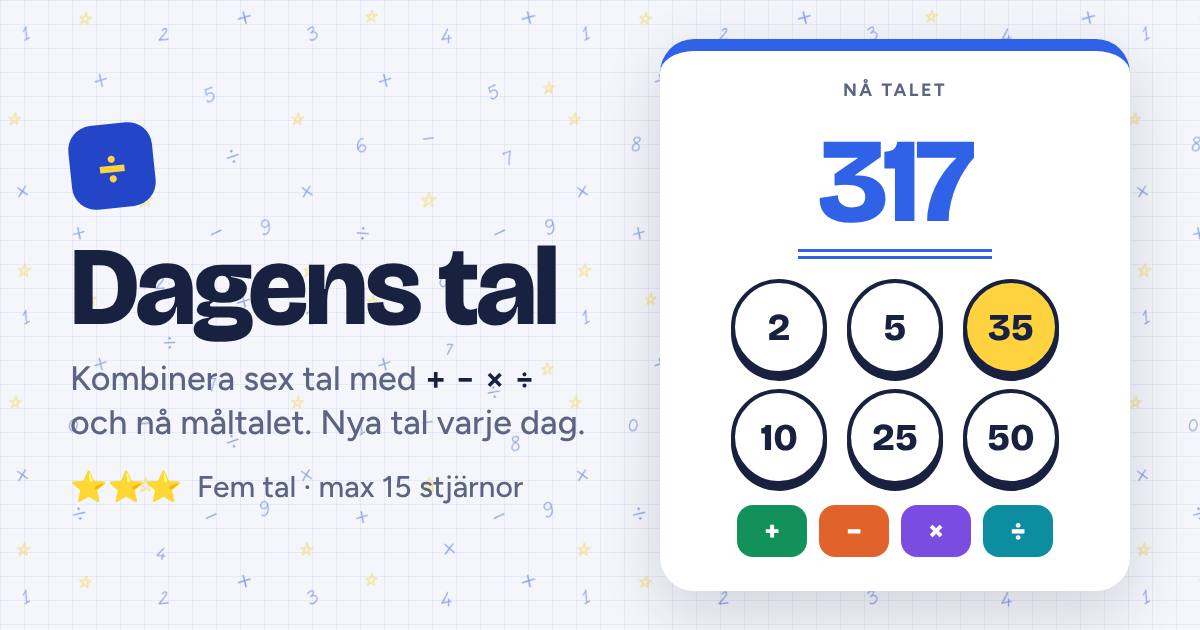
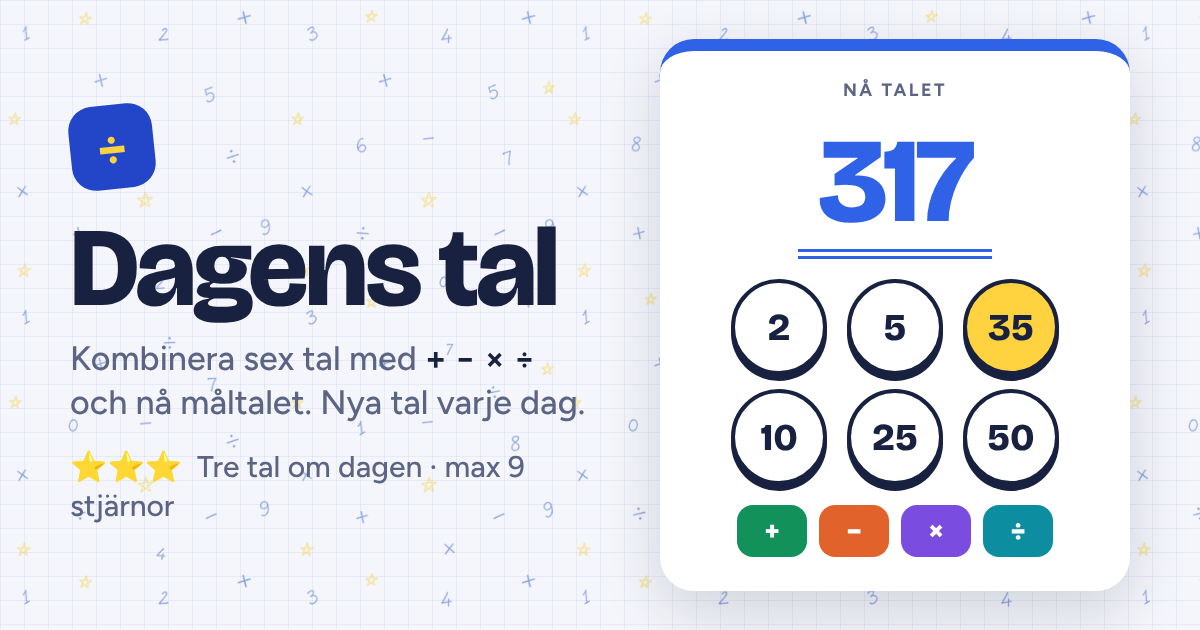
Three puzzles a day instead of five
Easy, medium and hard; max 9 stars. Drops the old four-step 999 puzzle.
Rounds saved with five puzzles start over. The database schema now
expects three stars per result; supabase/reset-for-3-tal.sql recreates it.

Claude-Session: https://claude.ai/code/session_01SSJfmnYezXMjpPcmrdnG4p

Changed region(s): [[0.0617, 0.3619, 0.4933, 0.6937], [0.0617, 0.7238, 0.4625, 0.8444], [0.0308, 0.1508, 0.1542, 0.3317]]

diff --git a/js/app.js b/js/app.js
@@ -55,6 +55,7 @@ function shake(node) {
   node.classList.add('shake');
 }
 
+const LV = [1, 3, 5]; // colour per puzzle: green, blue, pink
 const OP_CLASS = { '+': 'op-plus', '−': 'op-minus', '×': 'op-times', '÷': 'op-divide' };
 const stars = (n) => `<b>${'★'.repeat(n)}</b>${'☆'.repeat(3 - n)}`;
 const randomId = () => Math.random().toString(36).slice(2, 8);
@@ -90,7 +91,9 @@ const blank = () => ({
   started: false,
   finished: false,
 });
-const game = Object.assign(blank(), store.get(gameKey, {}));
+const saved = store.get(gameKey, {});
+// Rounds saved before the switch from five to three puzzles start over.
+const game = Object.assign(blank(), saved.puzzles?.length === round.length ? saved : {});
 const save = () => store.set(gameKey, game);
 
 let sel = null; // selected slot
@@ -147,7 +150,7 @@ function renderProgress() {
   nav.innerHTML = round
     .map((p, i) => {
       const st = game.puzzles[i];
-      const cls = ['prog', `lv-${i + 1}`, i === cur() ? 'current' : '', st.done ? 'done' : ''].join(' ');
+      const cls = ['prog', `lv-${LV[i]}`, i === cur() ? 'current' : '', st.done ? 'done' : ''].join(' ');
       const label = st.done ? `Tal ${i + 1}: ${st.stars} av 3 stjärnor` : `Tal ${i + 1}`;
       return `<button class="${cls}" data-i="${i}" aria-label="${label}" ${i === cur() ? 'aria-current="step"' : ''}>
         <span class="n">${i + 1}</span><span class="st">${st.done ? stars(st.stars) : '☆☆☆'}</span></button>`;
@@ -173,7 +176,7 @@ function renderPuzzle() {
   const { slots, lines, best } = board(i);
 
   const sheet = document.querySelector('.sheet');
-  sheet.className = `sheet lv-${i + 1}`;
+  sheet.className = `sheet lv-${LV[i]}`;
   $('#puzzle-title').textContent = `Tal ${i + 1} av ${PUZZLES}`;
   $('#puzzle-bands').innerHTML = `Exakt ${stars(3)} · ±${p.near} ${stars(2)} · ±${p.ok} ${stars(1)}`;
   const target = $('#target');
@@ -499,7 +502,7 @@ function finishRound() {
   syncResult();
   const total = starsList.reduce((s, x) => s + x, 0);
   setTimeout(() => {
-    if (total >= 12) burst(160);
+    if (total >= MAX_STARS - 2) burst(160);
     openResult();
   }, 900);
 }
@@ -578,8 +581,8 @@ function confirmBox(title, text, yes = 'OK', always = false) {
 
 function verdict(total) {
   if (total === MAX_STARS) return 'Perfekt runda!';
-  if (total >= 12) return 'Riktigt starkt!';
-  if (total >= 8) return 'Bra jobbat!';
+  if (total >= 7) return 'Riktigt starkt!';
+  if (total >= 5) return 'Bra jobbat!';
   return 'Bra kämpat!';
 }
 
@@ -686,17 +689,17 @@ async function loadOnline() {
         <div class="hist" aria-label="Hur många som fick varje antal stjärnor">${sum.hist
           .map((c, i) => `<span class="${i === total ? 'me' : ''}" style="height:${Math.max(4, (c / max) * 100)}%" title="${i} ★: ${c} spelare"></span>`)
           .join('')}</div>
-        <div class="hist-axis"><span>0 ★</span><span>15 ★</span></div>`;
+        <div class="hist-axis"><span>0 ★</span><span>${MAX_STARS} ★</span></div>`;
     }
-    html += '<h3>Snabbast med 15/15</h3>';
+    html += `<h3>Snabbast med ${MAX_STARS}/${MAX_STARS}</h3>`;
     if (top?.length) {
       html += `<ol class="board">${top
-        .map((r) => `<li class="${r.elapsed_ms === Math.round(game.elapsed) && total === 15 ? 'me' : ''}"><span>${esc(r.name)}</span><b>${formatDuration(r.elapsed_ms)}</b></li>`)
+        .map((r) => `<li class="${r.elapsed_ms === Math.round(game.elapsed) && total === MAX_STARS ? 'me' : ''}"><span>${esc(r.name)}</span><b>${formatDuration(r.elapsed_ms)}</b></li>`)
         .join('')}</ol>`;
     } else {
-      html += `<p class="muted small">Ingen har fått alla 15 stjärnor ${mode === 'daily' ? 'än idag. Bli först!' : 'den dagen.'}</p>`;
+      html += `<p class="muted small">Ingen har fått alla ${MAX_STARS} stjärnor ${mode === 'daily' ? 'än idag. Bli först!' : 'den dagen.'}</p>`;
     }
-    if (total === 15 && countsToday() && !game.named) {
+    if (total === MAX_STARS && countsToday() && !game.named) {
       html += `<form class="name-form" id="name-form">
           <label for="name-input">Skriv ditt namn på topplistan</label>
           <div><input id="name-input" maxlength="20" autocomplete="nickname" placeholder="Ditt namn" value="${esc(settings.name || '')}" />
@@ -781,7 +784,7 @@ function renderStats() {
   if (s.played) {
     html += `<p class="muted small">Bästa runda: ${s.bestRound} av ${MAX_STARS} stjärnor${s.perfect ? ` · ${s.perfect} perfekt${s.perfect === 1 ? '' : 'a'} runda${s.perfect === 1 ? '' : 'r'}` : ''}</p>`;
   } else {
-    html += '<p class="muted small">Spela klart dagens fem tal så dyker din statistik upp här.</p>';
+    html += '<p class="muted small">Spela klart dagens tre tal så dyker din statistik upp här.</p>';
   }
   $('#stats-body').innerHTML = html;
 }

diff --git a/index.html b/index.html
@@ -4,13 +4,13 @@
     <meta charset="utf-8" />
     <meta name="viewport" content="width=device-width, initial-scale=1, viewport-fit=cover" />
     <title>Dagens tal</title>
-    <meta name="description" content="Ett räknepussel om dagen. Kombinera sex tal och nå måltalet. Fem tal, femton stjärnor." />
+    <meta name="description" content="Ett räknepussel om dagen. Kombinera sex tal och nå måltalet. Tre tal om dagen, max nio stjärnor." />
     <meta name="theme-color" content="#2346c8" />
     <!-- Link previews (Messenger, WhatsApp, iMessage, Slack, …) -->
     <meta property="og:type" content="website" />
     <meta property="og:site_name" content="Dagens tal" />
     <meta property="og:title" content="Dagens tal: ett räknepussel om dagen" />
-    <meta property="og:description" content="Kombinera sex tal med + − × ÷ och nå måltalet. Fem tal om dagen, max 15 stjärnor. Alla får samma tal." />
+    <meta property="og:description" content="Kombinera sex tal med + − × ÷ och nå måltalet. Tre tal om dagen, max 9 stjärnor. Alla får samma tal." />
     <meta property="og:url" content="https://mattisvunreal.github.io/PuzzleMind/" />
     <meta property="og:image" content="https://mattisvunreal.github.io/PuzzleMind/img/og.png" />
     <meta property="og:image:width" content="1200" />
@@ -66,7 +66,7 @@
         <span class="timer" id="timer" title="Tid för rundan"></span>
       </div>
 
-      <nav class="progress" id="progress" aria-label="Dagens fem tal"></nav>
+      <nav class="progress" id="progress" aria-label="Dagens tre tal"></nav>
 
       <section class="sheet" aria-live="polite">
         <div class="sheet-head">
@@ -127,8 +127,8 @@
       </ol>
       <p class="example"><b>Exempel:</b> du har talen 2, 5, 9 … och trycker <span class="nowrap"><b>2</b>, <b>×</b>, <b>9</b></span>. Då blir det <b>18</b>. Nu är 2 och 9 borta, och 18 finns bland dina tal, så du kan räkna vidare med det, till exempel <span class="nowrap">18 − 5 = 13</span>.</p>
       <p>Fortsätt tills du når måltalet. Du behöver inte använda alla tal. Det blir alltid heltal, och minus och delat tar automatiskt det större talet först.</p>
-      <h3>Fem tal om dagen</h3>
-      <p>Varje dag får du fem tal att lösa. De börjar enkelt och blir svårare. Varje tal ger upp till tre stjärnor:</p>
+      <h3>Tre tal om dagen</h3>
+      <p>Varje dag får du tre tal att lösa: ett lätt, ett medel och ett svårt. Varje tal ger upp till tre stjärnor:</p>
       <table class="mini-table">
         <tr><td>Exakt rätt</td><td>★★★</td></tr>
         <tr><td>Nära</td><td>★★☆</td></tr>

diff --git a/tests/round.test.js b/tests/round.test.js
@@ -15,23 +15,23 @@ test('stars by distance, hint costs one', () => {
 });
 
 test('share text', () => {
-  const txt = shareText({ number: 1, label: '7 okt.', stars: [3, 3, 2, 1, 0], elapsed: 125000, streak: 3 });
-  assert.equal(txt, 'Dagens tal #1 · 7 okt.\n🟩🟩🟨🟧⬛\n9/15 ⭐\n⏱ 2:05  🔥 3 dagar i rad');
+  const txt = shareText({ number: 1, label: '7 okt.', stars: [3, 2, 0], elapsed: 125000, streak: 3 });
+  assert.equal(txt, 'Dagens tal #1 · 7 okt.\n🟩🟨⬛\n5/9 ⭐\n⏱ 2:05  🔥 3 dagar i rad');
 });
 
 test('stats and streaks', () => {
   const r = {
-    '2026-10-07': { stars: [3, 3, 3, 3, 3] },
-    '2026-10-08': { stars: [3, 2, 1, 0, 2] },
-    '2026-10-10': { stars: [3, 3, 3, 2, 2] },
+    '2026-10-07': { stars: [3, 3, 3] },
+    '2026-10-08': { stars: [3, 1, 0] },
+    '2026-10-10': { stars: [3, 3, 2] },
   };
   const s = computeStats(r, '2026-10-11');
   assert.equal(s.played, 3);
   assert.equal(s.current, 1);
   assert.equal(s.best, 2);
-  assert.equal(s.bestRound, 15);
+  assert.equal(s.bestRound, 9);
   assert.equal(s.perfect, 1);
-  assert.equal(s.dist[3], 9);
+  assert.equal(s.dist[3], 6);
 });
 
 test('dates', () => {

diff --git a/js/numbers.js b/js/numbers.js
@@ -53,17 +53,15 @@ export function canReach(nums, target, depth) {
   return rec(nums, depth);
 }
 
-// The five daily puzzles climb from a warm-up to a real head-scratcher.
+// The three daily puzzles: easy, medium and hard.
 //  big      how many of the large numbers (25, 50, 75, 100) are dealt
 //  steps    operations the target needs (and can't be done in fewer)
 //  range    target range
 //  near/ok  how close earns two stars / one star
 export const LEVELS = [
   { big: 0, steps: 2, range: [12, 60], near: 2, ok: 5 },
-  { big: 1, steps: 2, range: [30, 150], near: 2, ok: 5 },
-  { big: 1, steps: 3, range: [100, 400], near: 5, ok: 10 },
+  { big: 1, steps: 3, range: [60, 300], near: 5, ok: 10 },
   { big: 2, steps: 3, range: [150, 600], near: 5, ok: 10 },
-  { big: 2, steps: 4, range: [250, 999], near: 5, ok: 10 },
 ];
 
 const BIG = [25, 50, 75, 100];

diff --git a/css/style.css b/css/style.css
@@ -163,7 +163,7 @@ h1, h2, h3 { margin: 0; line-height: 1.15; text-wrap: balance; }
 .timer { font-variant-numeric: tabular-nums; }
 
 /* progress: five puzzles with their stars */
-.progress { display: grid; grid-template-columns: repeat(5, 1fr); gap: 8px; }
+.progress { display: grid; grid-template-columns: repeat(3, 1fr); gap: 10px; }
 .prog {
   border: 1.5px solid var(--line); background: var(--sheet); border-radius: 14px; padding: 8px 4px 6px;
   display: grid; justify-items: center; gap: 2px; cursor: pointer; transition: transform 0.12s, border-color 0.15s;

diff --git a/js/round.js b/js/round.js
@@ -2,7 +2,7 @@
 
 import { addDays, daysBetween } from './date.js';
 
-export const PUZZLES = 5;
+export const PUZZLES = 3;
 export const MAX_STARS = PUZZLES * 3;
 
 export const RESULTS = [

diff --git a/README.md b/README.md
@@ -1,7 +1,7 @@
 # Dagens tal
 
 **Ett räknepussel om dagen.** Kombinera sex tal med + − × ÷ och försök nå
-måltalet. Varje dag finns fem tal som blir lite svårare för varje steg, och
+måltalet. Varje dag finns tre tal (lätt, medel och svårt), och
 varje tal ger upp till tre stjärnor. Alla spelar samma tal samma dag.
 
 ## Så funkar det
@@ -25,11 +25,9 @@ det är tänkt, så de svårare talen kräver verkligen fler steg:
 
 | Tal | Stora tal (25–100) | Steg som krävs | Måltal |
 | --- | --- | --- | --- |
-| 1 | 0 | 2 | 12–60 |
-| 2 | 1 | 2 | 30–150 |
-| 3 | 1 | 3 | 100–400 |
-| 4 | 2 | 3 | 150–600 |
-| 5 | 2 | 4 | 250–999 |
+| 1 (lätt) | 0 | 2 | 12–60 |
+| 2 (medel) | 1 | 3 | 60–300 |
+| 3 (svårt) | 2 | 3 | 150–600 |
 
 Allt räknas fram i webbläsaren utifrån datumet. Det behövs ingen server och
 inget byggsteg.
@@ -37,7 +35,7 @@ inget byggsteg.
 ## Snitt och topplista (Supabase)
 
 Efter rundan visas hur det gick för alla andra: antal spelare, snittet,
-fördelningen av stjärnor och en topplista över de snabbaste med 15/15.
+fördelningen av stjärnor och en topplista över de snabbaste med 9/9.
 Resultaten sparas i en gratis Supabase-databas. Spelet fungerar som vanligt
 även om den inte går att nå.
 
